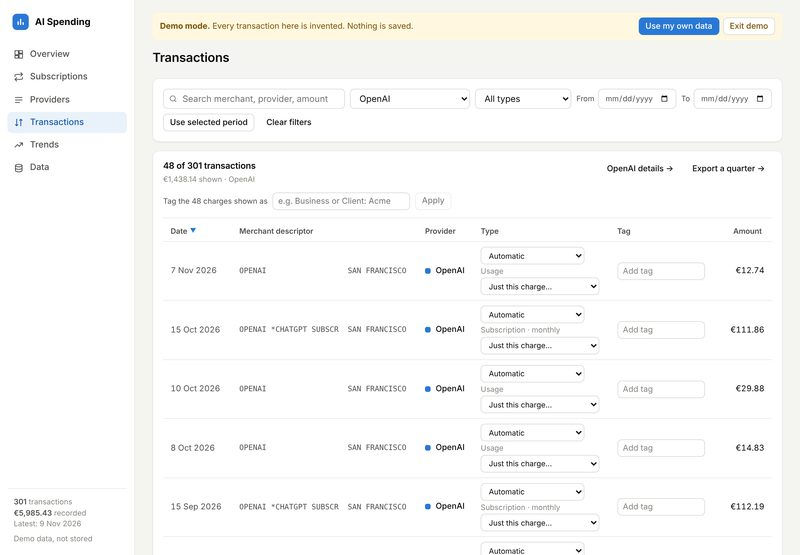
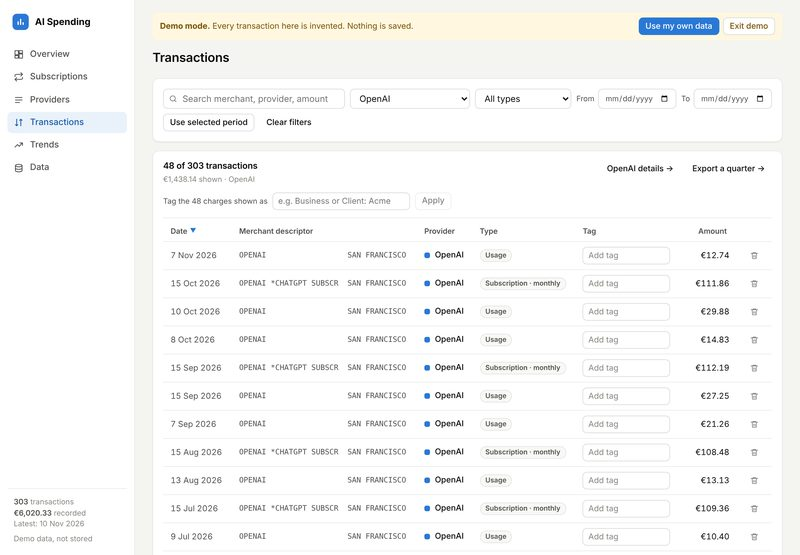
Docs and screenshots for charge types and delete
README: charge types (cleaning, reviewing, where things are changed), the
read-only Subscriptions page, deleting a charge. Screenshots retaken for the
Providers list, provider page (now Charge types), Transactions, mobile
Transactions and Subscriptions, including the two on the landing page.

Claude-Session: https://claude.ai/code/session_01Qfp4rKYZyoAM3kx2Mp811X

diff --git a/README.md b/README.md
@@ -42,9 +42,9 @@ npm run licenses:check  # fail on a non-permissive dependency license or an out-
 | Page | What you get |
 |---|---|
 | **Overview** | Spending for the selected month (default: latest recorded month), previous month, month-over-month change (like-for-like when the month is still in progress), year total, number of providers, a monthly chart stacked by provider or by category (click a bar to open that month), largest contributors, the month's charges, a current-month estimate, and an optional monthly budget shown against that estimate. Switch between Month / Year / All time in the header. |
-| **Subscriptions** | What your recurring charges commit you to: monthly run-rate and per year, a 30-day calendar of expected charges, price changes ("went from €22.49 to €109.38 in Jun"), stopped subscriptions with a check that nothing still charges, overlapping tools ("2 chat assistants · €130/month combined"), and what ending each would save. Every charge gets a type (Subscription, Usage or One-time / Other) that you can correct. See [Insights](#insights). |
-| **Providers** | All providers with all-time total, spending in the selected period, share, transaction count, and first / most recent charge. Search and sort any column. Click a provider for its detail page: monthly chart, recurring-looking patterns, full transaction history, and the merchant descriptors it appears under. |
-| **Transactions** | Searchable, sortable table with original merchant descriptors and amounts. Filter by provider and date range (or "Use selected period"). Filters live in the URL, so provider pages and the overview link straight into a filtered view. Click a row to jump to its provider. Each charge can carry a tag (Personal, Business, a client), singly or for everything shown at once. |
+| **Subscriptions** | What your recurring charges commit you to: monthly run-rate and per year, a 30-day calendar of expected charges, price changes ("went from €22.49 to €109.38 in Jun"), stopped subscriptions with a check that nothing still charges, overlapping tools ("2 chat assistants · €130/month combined"), and what ending each would save. The page is derived from your provider and transaction data and is read-only: every charge belongs to a charge type (Subscription, Usage or One-time / Other), which you set on the provider's page. See [Insights](#insights). |
+| **Providers** | All providers with all-time total, spending in the selected period, share, transaction count, and first / most recent charge. Search and sort any column. Click a provider for its detail page: monthly chart, recurring-looking patterns, its **charge types** (the one place to say what each is, with a label, category and tag rule), and its full transaction history. A "To review" column shows how many charge types you have not confirmed yet. |
+| **Transactions** | Searchable, sortable table with original merchant descriptors and amounts. Filter by provider and date range (or "Use selected period"). Filters live in the URL, so provider pages and the overview link straight into a filtered view. Click a row to jump to its provider. Each charge can carry a tag (Personal, Business, a client), singly or for everything shown at once, and a charge imported by mistake can be deleted (with a confirmation). The type of a charge is shown but not changed here: it links to the provider page. |
 | **Trends** | Monthly spending with a 3-month average, year-over-year by calendar month, yearly totals with like-for-like comparison, biggest increases and decreases by provider (last 3 months vs the 3 before, or year to date vs last year), provider concentration (top-1 / top-3 share, providers making up 80%), recurring charges against usage and one-off charges, and recurring-looking patterns. |
 | **Data** | Import more CSVs (with a review step), export all transactions as CSV (budgets, corrections, labels, categories and tag rules are not in the file), export one quarter (optionally one tag) for expense claims, clear local data (requires typing `DELETE`), import history, and the duplicate policy in plain language. |
 
@@ -142,20 +142,21 @@ Every charge is one of three things, by how it is billed:
 | **Usage** | Pay as you go: API credits, top-ups, overages. Amounts and timing vary. |
 | **One-time / Other** | Everything else. |
 
-The app guesses, and you correct. In order, a charge is:
+The app guesses, and you confirm. In order, a charge is:
 
-1. whatever you set **for that charge** (see below), else
-2. whatever you set for its **stream** (provider plus descriptor), else
-3. a **monthly subscription** if it is part of a detected pattern (monthly, similar day and amount, 3+ months in a row, or a new price straight after a pattern ended: see [Plan switches](#insights)), else
-4. what the statement import or a `Type` column said (Subscription, Usage; Certification, Domains, Hosting and Other count as One-time / Other), else
-5. **Usage** if the same descriptor has been charged 3 or more times without a monthly rhythm, else
-6. **One-time / Other**.
+1. whatever you set for its **charge type** (see below), else
+2. a **monthly subscription** if it is part of a detected pattern (monthly, similar day and amount, 3+ months in a row, or a new price straight after a pattern ended: see [Plan switches](#insights)), else
+3. what the statement import or a `Type` column said (Subscription, Usage; Certification, Domains, Hosting and Other count as One-time / Other), else
+4. **Usage** if the same charge type has been charged 3 or more times without a monthly rhythm, else
+5. **One-time / Other**.
 
 **Yearly subscriptions are never detected.** One renewal a year cannot be told from a one-off charge, so a yearly subscription is always something you set. The amount is the last charge, and the next renewal is estimated a year after it and labelled "estimated" until a real renewal has been seen. If the date passes, it shows as "renewal not seen yet" and is still counted for 60 days. After that it moves to Stopped. In the run-rate it counts as a twelfth per month; in the 30-day calendar it appears, at its full amount, when a renewal is near.
 
-**Services under a provider.** A stream is a provider plus a merchant descriptor, and each stream has its own type. Anthropic's `CLAUDE SUB` descriptor can be a subscription while plain `Anthropic` is usage; the provider page lists them as services, each with its own control. When a service bills a plan and its usage in one charge (Vercel, for example) the data cannot separate them: set it to Subscription and accept that the amounts will vary.
+**Charge types.** A charge always belongs to a provider. Under a provider, the statement description tells the kinds of charge apart: Anthropic's `CLAUDE SUB` is a subscription, plain `Anthropic` is API usage. Each kind is a **charge type**. The description is cleaned first, so reference codes (Namecheap's `NAME-CHEAP.COM* PTOOH4`), the padded city, "INC." and capitals do not split one charge type into many: in the test ledger 49 raw descriptions become 31 charge types, and Namecheap's 19 become one. When a service bills a plan and its usage in one charge (Vercel, for example) the data cannot separate them: set it to Subscription and accept that the amounts will vary.
 
-**Setting a type.** Each charge in the Transactions table, each row on the Subscriptions page and each service on a provider page has a **Type** control: Automatic, Subscription · monthly, Subscription · yearly, Usage, or One-time / Other. While it is on Automatic, the app shows what it guessed, and why on hover. A choice applies to the whole stream (every charge with the same provider and descriptor, and the control says how many). In the Transactions table, **Just this charge…** sets the type of one charge instead, for a stream that shares a descriptor between a plan and its top-ups; such a charge is marked "Differs from its stream". It never changes a charge or a total. Corrections are stored in this browser (removed by **Clear local data**; in demo mode kept in memory only). **Labels and categories.** A stream can carry a short label such as "Claude Pro", edited next to the Type control on the Subscriptions page and a provider's Services card; it is shown instead of the descriptor (which stays on hover). A provider can be given a category on its page, which charts, budgets and overlap then use instead of the built-in mapping. Both are display choices: no charge or total changes. They are stored and listed in **Your corrections** like types. Corrections saved by earlier versions are converted: "subscription" becomes Subscription · monthly, and "ignore" becomes One-time / Other.
+**Reviewing charge types.** A provider's page lists its charge types with the number of charges, the total, the last charge and what the app suggests. Choose Subscription · monthly, Subscription · yearly, Usage or One-time / Other: the setting applies to every charge of that type, past and future (a file imported later is matched the same way). A charge type you have not set is marked **To review** and shows the app's suggestion, and why on hover; **Confirm** accepts it, **Confirm all** does the whole provider. The Providers page counts what is still to review, and the Subscriptions page says so too. Settings are stored in this browser (removed by **Clear local data**; in demo mode kept in memory only) and never change a charge or a total. Settings saved by earlier versions under a raw description still match, and "subscription" becomes Subscription · monthly, "ignore" becomes One-time / Other.
+
+**Where things are changed.** The provider page changes how charges are interpreted: type, label, category and tag rule. The Transactions page changes nothing about interpretation: it only holds the facts and notes on a single charge (tags, and deleting a charge). The Subscriptions page is derived and read-only. A **label** such as "Claude Pro" is shown instead of the description (which stays on hover); a **category** set on a provider is used by charts, budgets and overlap instead of the built-in mapping.
 
 ## Insights
 
@@ -172,7 +173,7 @@ A charge only has a merchant, provider, amount and date: no plan name, no usage 
 - **Budgets.** A monthly budget in total and/or per category, shown against what is spent so far and the month-end estimate ("On track to exceed by €40", "Over budget by €20"). A category estimate uses the same method as the total, applied to that category's charges. Saved in this browser (IndexedDB), not exported, and removed by **Clear local data**.
 - **Tags.** One optional label per charge. Edit it in the Transactions table, or tag everything currently shown (existing different tags are only replaced after a confirmation). **Data → Export a quarter** downloads one quarter, optionally one tag, as a CSV with a `Tag` column that can be re-imported. **Tag rules:** on a provider's page, "Tag new charges" sets a tag that charges from that provider get when they are imported without one (a tag in the file always wins, and charges already stored are not changed; use the bulk tag for those). The import message says how many charges a rule tagged, and each rule is listed in **Your corrections** with a **Remove rule** button. The ledger has no VAT figures, so amounts are as charged and VAT is not split out.
 
-- **Your corrections.** See [Charge types](#charge-types). Corrections flow through run-rate, calendar, price changes, overlap, the type split, the month-end estimate and the recurring-patterns tables, and are listed with a **Reset** button in the **Your corrections** card (types per stream or per charge, labels and provider categories).
+- **Charge types.** See [Charge types](#charge-types). What you set flows through run-rate, calendar, price changes, overlap, the type split, the month-end estimate and the recurring-patterns tables.
 
 In demo mode budgets, tags, tag rules and corrections live in memory only, like the demo data.
 
@@ -259,8 +260,8 @@ The **Data** page ends with an **About** card: the version from `package.json`, 
 | ![Changes](docs/screenshots/07-trends-changes-recurring.jpg) Changes, concentration, recurring | ![Import review](docs/screenshots/08-import-review-errors.jpg) Import review with errors |
 | ![Data](docs/screenshots/09-data.jpg) Data management | ![Dark](docs/screenshots/13-overview-dark.jpg) Dark mode |
 | ![Mobile](docs/screenshots/10-mobile-overview.jpg) Mobile overview | ![Mobile forecast](docs/screenshots/11-mobile-forecast.jpg) Mobile estimate |
-| ![Mobile transactions](docs/screenshots/12-mobile-transactions.jpg) Mobile transactions | ![Subscriptions](docs/screenshots/15-subscriptions.jpg) Subscriptions: run-rate, calendar, Type control |
-| ![Price changes, overlap and stopped](docs/screenshots/16-subscriptions-insights.jpg) Price changes, overlap, stopped | ![Services](docs/screenshots/14-provider-services.jpg) Provider services: type, label and category |
+| ![Mobile transactions](docs/screenshots/12-mobile-transactions.jpg) Mobile transactions | ![Subscriptions](docs/screenshots/15-subscriptions.jpg) Subscriptions: run-rate and calendar (read-only) |
+| ![Price changes, overlap and stopped](docs/screenshots/16-subscriptions-insights.jpg) Price changes, overlap, stopped | ![Charge types](docs/screenshots/14-provider-charge-types.jpg) Provider charge types: type, label, category, to review |
 | ![Types](docs/screenshots/17-trends-types.jpg) Trends: subscription, usage and one-time | ![Budget](docs/screenshots/18-budget.jpg) Monthly budget against the estimate |
 | ![Quarter export](docs/screenshots/19-quarter-export.jpg) Export a quarter | |
 
